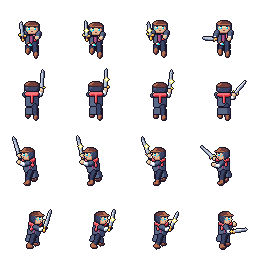
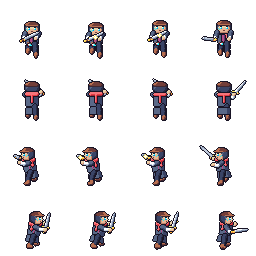
US-8C04: parata con la lama davanti, note mandate che tornano da testare quando la cosa e' rifatta, sezione Testate
Claude-Session: https://claude.ai/code/session_014ycMSkFAn8ixUvbSfrqtAR

diff --git a/tools/dashboard/pagina.html b/tools/dashboard/pagina.html
@@ -128,6 +128,7 @@ img.foto { width: 100%; aspect-ratio: 16 / 9; object-fit: cover; border-radius: 
 .mini { display: grid; grid-template-columns: repeat(auto-fill, minmax(96px, 1fr)); gap: 6px }
 .mini button { border: 1px solid var(--linea); background: var(--fondo2); border-radius: 4px; padding: 4px; cursor: pointer; display: flex; flex-direction: column; align-items: center; gap: 2px; color: var(--testo); font: 11px var(--f-testo) }
 .mini button[aria-pressed="true"] { border-color: var(--accento); box-shadow: 0 0 0 1px var(--accento) }
+.storia { margin-top: 10px; border-top: 1px solid var(--bordo, #ccc); padding-top: 6px } .storia ul { margin: 4px 0 0; padding-left: 18px }
 .campo { display: block; width: 100%; border-radius: 6px; image-rendering: pixelated; background: #3e8948; outline: none; cursor: pointer }
 .campo:focus { box-shadow: 0 0 0 3px var(--accento) }
 .arena-box.grande { position: fixed; inset: 0; z-index: 50; background: #181425; padding: 12px; overflow: auto; display: flex; flex-direction: column; gap: 8px }
@@ -285,11 +286,19 @@ function effetto(e, pal, scala = 2, ctrl = null) {
 }
 
 // ---------- giudizi ----------
-const statoDi = k => (GIU.get(k) || {}).stato || null;
-const notaDi = k => (GIU.get(k) || {}).nota || "";
+// Versioni (build.py versioni): un giudizio vale solo per la versione che hai visto. Se la cosa e' stata rifatta dopo,
+// torna "da testare" e la nota scende fra quelle gia' sistemate (storia); ne puoi scrivere una nuova.
+const VER = k => (D && D.versioni || {})[k];
+const attuale = (g, V) => !V || (g.versione ? g.versione === V.v : (g.quando || "") >= V.dal);
+const statoDi = k => { const g = GIU.get(k) || {}; return attuale(g, VER(k)) ? g.stato || null : null; };
+const notaDi = k => { const g = GIU.get(k) || {}; return attuale(g, VER(k)) ? g.nota || "" : ""; };
+const storiaDi = k => { const g = GIU.get(k) || {}, st = [...(g.storia || [])];
+  if (!attuale(g, VER(k)) && g.nota) st.push({nota: g.nota, quando: g.quando}); return st; };
 async function salva(k, campi) {
   if (!db || !posso) return false;
-  const prima = GIU.get(k) || {}, nuovo = {...prima, ...campi, quando: new Date().toISOString()};
+  let prima = GIU.get(k) || {}; const V = VER(k);
+  if (V && !attuale(prima, V)) prima = {storia: storiaDi(k)};          // versione nuova: si riparte, la nota scende
+  const nuovo = {...prima, ...campi, quando: new Date().toISOString(), ...(V ? {versione: V.v} : {})};
   GIU.set(k, nuovo); aggiornaGiudizi();
   try { await db.doc("giudizi/" + k).set(nuovo); return true; } catch (e) { GIU.set(k, prima); aggiornaGiudizi(); avviso("Non salvato: " + (e.code || "errore")); return false; }
 }
@@ -301,7 +310,7 @@ function bottoniGiudizio(k, perCarta = true) {
   const no = h("button", {class: "no", type: "button", "aria-pressed": String(st === "no"), disabled: !posso, title: posso ? "Da rifare: si apre la nota" : "Solo il proprietario può giudicare",
     onclick: ev => { ev.stopPropagation(); if (statoDi(k) !== "no") salva(k, {stato: "no"});
       if (perCarta) { const c = ev.currentTarget.closest("[data-i]"); apriElemento(c ? +c.dataset.i : 0, true); }
-      else document.getElementById("nota")?.focus(); }}, "✗ Rifare");
+      else document.getElementById("nota")?.focus(); }}, "✎ Nota da sistemare");
   return h("div", {class: "giudizio", "data-g": k}, si, no);
 }
 function aggiornaGiudizi() {
@@ -312,6 +321,7 @@ function aggiornaGiudizi() {
       const n = s.querySelector(".nota-card"); if (n) n.textContent = st === "no" ? notaDi(k) : ""; }
   }
   for (const m of document.querySelectorAll(".segno[data-k]")) { const st = statoDi(m.dataset.k); m.classList.toggle("ok", st === "ok"); m.classList.toggle("no", st === "no"); }
+  if (VISTA === "provare" && MOD.hidden) rendi();               // le schede passano da una sezione all'altra
 }
 
 // ---------- elenco della vista e carte ----------
@@ -355,7 +365,7 @@ function apriElemento(i, focusNota = false) {
   const era = MOD.hidden; MOD.hidden = false;
   if (focusNota) document.getElementById("nota")?.focus(); else if (era) document.getElementById("mod-dopo").focus();
 }
-function chiudi() { for (const f of ESCI) f(); ESCI = []; MOD.hidden = true; document.querySelector(`[data-i="${IDX}"]`)?.focus(); }
+function chiudi() { for (const f of ESCI) f(); ESCI = []; MOD.hidden = true; if (VISTA === "provare") rendi(); document.querySelector(`[data-i="${IDX}"]`)?.focus(); }
 document.getElementById("mod-chiudi").onclick = chiudi;
 document.getElementById("mod-prima").onclick = () => apriElemento((IDX - 1 + ELENCO.length) % ELENCO.length);
 document.getElementById("mod-dopo").onclick = () => apriElemento((IDX + 1) % ELENCO.length);
@@ -373,14 +383,17 @@ document.addEventListener("keydown", e => {
 });
 function pannelloGiudizio(k) {
   if (!k) return null;
-  const ta = h("textarea", {id: "nota", placeholder: posso ? "Scrivi cosa non va: si salva da sola e segna «da rifare»" : "Solo il proprietario scrive le note", disabled: !posso});
+  const ta = h("textarea", {id: "nota", placeholder: posso ? "Scrivi cosa non va: si salva da sola e diventa una nota mandata" : "Solo il proprietario scrive le note", disabled: !posso});
   ta.value = notaDi(k);
   const info = h("div", {class: "salvato", text: GIU.get(k)?.quando ? "Ultimo cambio: " + data(GIU.get(k).quando) : ""});
   let timer = null;
-  const scrivi = async () => { timer = null; const v = ta.value.trim(); if (v === notaDi(k)) return; const ok = await salva(k, v ? {nota: v, stato: "no"} : {nota: ""}); info.textContent = ok ? "Nota salvata" + (v ? " · segnato da rifare" : "") : "Non salvata"; };
+  const scrivi = async () => { timer = null; const v = ta.value.trim(); if (v === notaDi(k)) return; const ok = await salva(k, v ? {nota: v, stato: "no"} : {nota: ""}); info.textContent = ok ? (v ? "Nota mandata: la sistemo e torna da testare" : "Nota tolta") : "Non salvata"; };
   ta.addEventListener("input", () => { info.textContent = "…"; clearTimeout(timer); timer = setTimeout(scrivi, 700); });
   ESCI.push(() => { if (timer) { clearTimeout(timer); scrivi(); } });
-  return h("div", {class: "blocco"}, h("h4", {text: "Il tuo giudizio"}), bottoniGiudizio(k, false), h("div", {style: "height:6px"}), ta, info);
+  const vecchie = storiaDi(k);
+  return h("div", {class: "blocco"}, h("h4", {text: "Il tuo giudizio"}), bottoniGiudizio(k, false), h("div", {style: "height:6px"}), ta, info,
+    vecchie.length ? h("div", {class: "storia"}, h("h4", {text: "Note già sistemate"}), h("ul", {}, vecchie.slice().reverse().map(n =>
+      h("li", {}, h("span", {class: "sotto", text: data(n.quando) + " · sistemata · "}), n.nota))) ) : null);
 }
 function tabella(righe) { const r = righe.filter(x => x && x[1] !== undefined && x[1] !== null && x[1] !== ""); if (!r.length) return null;
   return h("div", {class: "blocco dati"}, h("h4", {text: "Dati"}), h("table", {}, h("tbody", {}, r.map(([a, b]) => h("tr", {}, h("td", {text: a}), h("td", {}, valoreColorato(a, b))))))); }
@@ -758,7 +771,7 @@ function gruppi() {
 VISTE.oggi = () => {
   const av = D.avanzamento, aperte = av.storie.filter(s => !s.fatta).sort((a, b) => a.priorita - b.priorita);
   const G = gruppi(), tutti = Object.values(G).flat(), visti = tutti.filter(k => statoDi(k)).length;
-  const dr = [...GIU.entries()].filter(([, g]) => g.stato === "no").sort((a, b) => String(b[1].quando).localeCompare(String(a[1].quando)));
+  const dr = [...GIU.entries()].filter(([k]) => statoDi(k) === "no").sort((a, b) => String(b[1].quando).localeCompare(String(a[1].quando)));
   const st = stato("oggi"), listaDr = h("div", {class: "lista"});
   const q = h("input", {type: "search", id: "cerca-dr", placeholder: "Filtra le note…", value: st.q || ""});
   const popDr = () => { const r = dr.filter(([k, g]) => cerca(st, k, g.nota || "")).map(([k, g]) => h("div", {}, h("span", {class: "id", text: k}), h("span", {class: "tx", text: g.nota || "senza nota"}), h("span", {class: "dx", text: data(g.quando)})));
@@ -773,7 +786,7 @@ VISTE.oggi = () => {
       h("div", {class: "numero"}, h("b", {text: dr.length, style: dr.length ? "color:var(--no)" : ""}), h("span", {text: "da rifare"})),
       h("div", {class: "numero"}, h("b", {text: euro(CONSUMO.reduce((a, s) => a + (s.costo || 0), 0))}), h("span", {text: "costo API stimato"}))),
     h("div", {class: "due"},
-      h("div", {}, h("h3", {text: "Da rifare: le tue note"}), h("div", {class: "filtri"}, q), h("div", {class: "scorri basso"}, listaDr)),
+      h("div", {}, h("h3", {text: "Note mandate (le sto sistemando)"}), h("div", {class: "filtri"}, q), h("div", {class: "scorri basso"}, listaDr)),
       h("div", {}, h("h3", {text: "Prossime story"}), h("div", {class: "scorri basso"}, h("div", {class: "lista"}, aperte.slice(0, 25).map(s =>
         h("div", {class: "cliccabile", onclick: () => apriStoria(s)}, h("span", {class: "id", text: s.id}), h("span", {class: "tx", text: s.titolo}), h("span", {class: "dx", text: "fase " + s.fase}))))))),
     h("div", {class: "avviso"}, "Le cose nuove da provare e approvare una per una sono nella pagina ", h("a", {href: "#provare", text: "Da testare"}), "."),
@@ -800,7 +813,7 @@ function figuraAnim(fid, nome, scala = 5) {
   return [guarda(l.c, l), l.a.righe > 1 ? dir : null, h("div", {class: "controlli"}, h("label", {for: "vel-prova"}, "Velocità", vel), testo, passo, gioca)];
 }
 const SPIEGA_ANIM = {idle: "Fermo: respira.", walk: "Cammina (8 fotogrammi).", dash: "Schivata in uso nel gioco.", attack_light: "Attacco leggero (tasto J).",
-  attack_heavy: "Attacco pesante (tasto K): si carica in avanti, spadone alto dietro la spalla; tenendo premuto resta sulla carica.", parry: "Parata.", hurt: "Colpito.",
+  attack_heavy: "Attacco pesante (tasto K): si carica in avanti, spadone alto dietro la spalla; tenendo premuto resta sulla carica.", parry: "Parata: la lama davanti a lui, di traverso, incontro al colpo; la scintilla dove arriva.", hurt: "Colpito: si piega, faccia del dolore, sangue.",
   death: "Morte: cade all'indietro e resta a terra.", cast: "Lancia un'abilità.", meditate: "Medita seduto.", interact: "Tocca porte, leve, persone.", pickup: "Raccoglie da terra.",
   drink: "Beve una fiala.", ritual: "Rituale, braccia alzate.", fly: "In volo.", sail: "In barca.", anticipo: "Il segnale prima dell'attacco: si abbassa, bocca aperta, coda dritta.",
   attack: "Morso in salto.", stagger: "Colpito, barcolla."};
@@ -811,9 +824,8 @@ VISTE.provare = () => {
   for (const p of T.pathway) for (const s of p.sequenze) for (const a of s.abilita) if (a.id === "hermit_incantesimo_tradizionale") { pw = p; ab = a; }
   const pal = pw ? pw.palette : {}, palTG = (T.pathway.find(p => p.id === "twilight_giant") || {}).palette || pal;
   const abil = ab && inc ? [{...ab, prim: ab.primitive, effetto: "vfx_incantesimo", danno: 18, cosa: ab.cosa || []}] : [];
-  const sezioni = [];
-  const gruppo = (titolo, intro, elementi) => { sezioni.push(h("h3", {text: titolo}), intro ? h("p", {class: "intro", text: intro}) : null,
-    h("div", {class: "griglia"}, elementi.map(el => carta(el, el.anteprima(), h("b", {text: el.titolo}), h("span", {class: "sotto", text: el.breve || ""}))))); };
+  const tutti = [];
+  const gruppo = (titolo, intro, elementi) => { for (const el of elementi) tutti.push({...el, gruppo: titolo}); };
   const anim = (fid, chiave, nome) => ({k: `prova:${chiave}_${nome}`, titolo: bello(nome), breve: SPIEGA_ANIM[nome] || "",
     anteprima: () => lettore(fid, {scala: 2, giro: false, anim: nome}),
     media: () => [h("p", {text: SPIEGA_ANIM[nome] || ""}), ...figuraAnim(fid, nome, 5)]});
@@ -837,8 +849,16 @@ VISTE.provare = () => {
      anteprima: () => lettore("enel", {scala: 2, giro: false, anim: "attack_heavy"}), media: () => [h("p", {text: "Provala nell'arena qui sotto la pagina (tasto K tenuto premuto)."}), ...figuraAnim("enel", "attack_heavy", 5)]},
     effetto("vfx_incantesimo", "prova:incantesimo", "Incantesimo tradizionale (in volo)", "Sigillo con 4 rune che gira, scia di scintille.", pal),
     effetto("vfx_incantesimo_scoppio", "prova:incantesimo_scoppio", "Incantesimo tradizionale (scoppio)", "Il sigillo si apre in un cerchio di rune e si spezza in schegge.", pal)].filter(Boolean));
-  return [h("h2", {text: "Da testare"}), h("p", {class: "intro", text: "Tutte le cose nuove, una per scheda: provale, poi Va bene o Rifare con una nota. Sotto c'è l'arena: Schermo intero per giocarla in grande."}),
-    h("h3", {text: "Arena di prova"}), arena({abilita: abil, palette: pal, bersaglio: D.figure.nem_lupo_della_luna ? "nem_lupo_della_luna" : true}), ...sezioni];
+  const scheda = el => carta(el, el.anteprima(), h("b", {text: el.titolo}), h("span", {class: "sotto", text: el.gruppo + (el.breve ? " · " + el.breve : "")}),
+    storiaDi(el.k).length && !statoDi(el.k) ? h("span", {class: "chip", text: "rifatta: riprovala"}) : null);
+  const parte = (titolo, intro, els) => [h("h3", {text: `${titolo} (${els.length})`}), h("p", {class: "intro", text: intro}),
+    els.length ? h("div", {class: "griglia"}, els.map(scheda)) : h("div", {class: "vuoto", text: "Niente qui."})];
+  const da = tutti.filter(e => !statoDi(e.k)), mandate = tutti.filter(e => statoDi(e.k) === "no"), fatte = tutti.filter(e => statoDi(e.k) === "ok");
+  return [h("h2", {text: "Da testare"}), h("p", {class: "intro", text: "Prova ogni scheda: Va bene la manda in Testate; una nota la manda in Note mandate. Quando la sistemo torna qui da testare, con la tua nota fra quelle già sistemate, e ne puoi scrivere una nuova."}),
+    h("h3", {text: "Arena di prova"}), arena({abilita: abil, palette: pal, bersaglio: D.figure.nem_lupo_della_luna ? "nem_lupo_della_luna" : true}),
+    ...parte("Da testare", "Nuove o rifatte dopo la tua ultima nota.", da),
+    ...parte("Note mandate", "Le tue note: le sto sistemando.", mandate),
+    ...parte("Testate", "Approvate. Se una cambia, torna da testare.", fatte)];
 };
 
 VISTE.avanzamento = () => {

diff --git a/tools/dashboard/build.py b/tools/dashboard/build.py
@@ -52,6 +52,66 @@ ANIM = j("data", "animations.json")
 FIGURE = {}
 
 
+# --- versioni delle cose da testare ------------------------------------------------------------------------------
+# Ogni cosa della pagina "Da testare" ha un'impronta del suo disegno (sha dei file). Quando cambia, il registro
+# (tools/dashboard/versioni.json, nel repo) segna da quando: un giudizio dato prima torna "da testare" e la sua nota
+# va fra quelle sistemate. Cosi' una nota mandata, appena la cosa e' rifatta, lascia il posto a una nuova prova.
+REGISTRO = os.path.join(ROOT, "tools", "dashboard", "versioni.json")
+GIUDICATO = "e501670"         # il commit che l'utente ha giudicato per primo (la pagina Da testare del 2026-11-18)
+
+
+def _sha(*blobs):
+    import hashlib
+    h = hashlib.sha256()
+    for b in blobs:
+        h.update(b)
+    return h.hexdigest()[:12]
+
+
+def _file_prova():
+    """chiave -> lista di percorsi (dalla radice del repo) che fanno quella cosa."""
+    out = {}
+    pers = [n for n, a in senza_commenti(ANIM["personaggio"]).items() if isinstance(a, dict) and "frames" in a]
+    lupo = [n for n, a in senza_commenti(ANIM["nemico_base"]).items() if isinstance(a, dict) and "frames" in a]
+    for n in pers:
+        out[f"prova:enel_{n}"] = [f"assets/placeholder/personaggio_{n}.png"]
+    out["prova:enel"] = [f"assets/placeholder/personaggio_{n}.png" for n in pers]
+    for n in lupo:
+        out[f"prova:lupo_{n}"] = [f"assets/placeholder/nemico_base_lupo_della_luna_{n}.png"]
+    out["prova:lupo"] = [f"assets/placeholder/nemico_base_lupo_della_luna_{n}.png" for n in lupo]
+    for f in glob.glob(os.path.join(ROOT, "arte", "prova", "personaggio_dash_*.png")):
+        vid = os.path.basename(f)[len("personaggio_dash_"):-4]
+        out[f"prova:schivata_{vid}"] = [f"arte/prova/personaggio_dash_{vid}.png"]
+    for k, sp in (("fendente_pesante", "vfx_fendente_pesante"), ("incantesimo", "vfx_incantesimo"),
+                  ("incantesimo_scoppio", "vfx_incantesimo_scoppio")):
+        out[f"prova:{k}"] = [f"assets/vfx/{sp}.png"]
+    out["prova:carica"] = ["assets/placeholder/personaggio_attack_heavy.png", "scripts/player.gd"]
+    return out
+
+
+def versioni():
+    reg = json.load(open(REGISTRO, encoding="utf-8")) if os.path.isfile(REGISTRO) else {}
+    adesso = datetime.now(timezone.utc).strftime("%Y-%m-%dT%H:%M:%SZ")
+    out = {}
+    for k, files in _file_prova().items():
+        dati = [open(os.path.join(ROOT, f), "rb").read() for f in files if os.path.isfile(os.path.join(ROOT, f))]
+        if not dati:
+            continue
+        v = _sha(*dati)
+        if k not in reg:                          # prima volta: com'era al commit giudicato?
+            prima = []
+            for f in files:
+                r = subprocess.run(["git", "show", f"{GIUDICATO}:{f}"], cwd=ROOT, capture_output=True)
+                prima.append(r.stdout if r.returncode == 0 else b"")
+            reg[k] = {"v": v, "dal": "2026-11-18T00:00:00Z" if _sha(*prima) == v else adesso}
+        elif reg[k]["v"] != v:
+            reg[k] = {"v": v, "dal": adesso}
+        out[k] = reg[k]
+    with open(REGISTRO, "w", encoding="utf-8") as fh:
+        json.dump(reg, fh, ensure_ascii=False, indent=1, sort_keys=True)
+    return out
+
+
 def varianti_schivata():
     """Le versioni della schivata da scegliere (tools/art/build_griglia.py -> arte/prova/): una figura ciascuna."""
     import importlib
@@ -459,6 +519,7 @@ def main():
     dati["nemici"], dati["boss"] = nemici()
     dati["personaggi"] = personaggi()
     dati["tecniche"] = tecniche()
+    dati["versioni"] = versioni()
     dati["combattimento"] = senza_commenti(json.load(open(os.path.join(DATA, "balance.json"), encoding="utf-8"))["combattimento"])
     dati["oggetti"], dati["stati"] = oggetti()
     dati["mondo"] = mondo()

diff --git a/tools/art/griglia/figure/personaggio.py b/tools/art/griglia/figure/personaggio.py
@@ -238,7 +238,7 @@ def disegna(tela, v, g, posa):
             x, y = v.xy(pomo + d * 12)
             griglia(tela, ["..Y..", ".YWY.", "YWWWY", ".YWY.", "..Y.."], {"Y": colore("yellow"), "W": colore("white")},
                     int(round(x - 2)), int(round(y - 2)), "scintilla", separa=False)
-        parti.append((99, 6, scintilla))
+        parti.append((v.prof(pomo + d * 12) + 0.1, 6, scintilla))       # alla profondita' della lama
 
     sangue = posa.get("sangue", 0)               # gocce che schizzano dal petto (hurt, death)
     if sangue:
@@ -323,13 +323,14 @@ ANIM = {
         (9 / 11, dict(PRONTO, arma=(-30, 5), braccio_r=(64, 8, 10), braccio_l=(62, -8, 10), piega=24, avanti=2,
                       gamba_l=(26, 6, 30), gamba_r=(-16, 6, 12))),
         (1.0, dict(PRONTO))]},
-    # parry: lama dritta davanti al corpo, braccia avanti, incontro al colpo; la scintilla e' dove il colpo arriva
+    # parry: la lama DAVANTI a lui, di traverso fra lui e il colpo (mani avanti all'altezza del petto, lama che sale in
+    # diagonale verso la sua sinistra); la scintilla e' sulla lama, davanti, dove arriva il colpo
     "parry": {"chiavi": [
-        (0.0, dict(PRONTO, arma=(72, 15), braccio_r=(78, 18, 40), braccio_l=(76, -14, 44), piega=10, avanti=1.5,
+        (0.0, dict(PRONTO, arma=(30, -75), braccio_r=(74, 14, 24), braccio_l=(72, -24, 38), piega=10, avanti=1.5,
                    gamba_l=(22, 6, 18), gamba_r=(-18, 6, 14))),
-        (1 / 3, dict(PRONTO, arma=(76, 12), braccio_r=(84, 18, 34), braccio_l=(82, -14, 38), piega=12, avanti=2,
+        (1 / 3, dict(PRONTO, arma=(30, -75), braccio_r=(78, 14, 18), braccio_l=(76, -24, 32), piega=12, avanti=2,
                      gamba_l=(24, 6, 22), gamba_r=(-20, 6, 16), scintilla=True)),
-        (2 / 3, dict(PRONTO, arma=(66, 18), braccio_r=(72, 18, 46), braccio_l=(70, -14, 50), piega=6, avanti=0.5,
+        (2 / 3, dict(PRONTO, arma=(32, -70), braccio_r=(70, 14, 30), braccio_l=(68, -24, 42), piega=8, avanti=1,
                      gamba_l=(20, 6, 18), gamba_r=(-16, 6, 14))),
         (1.0, dict(PRONTO))]},
     "hurt": {"chiavi": [
